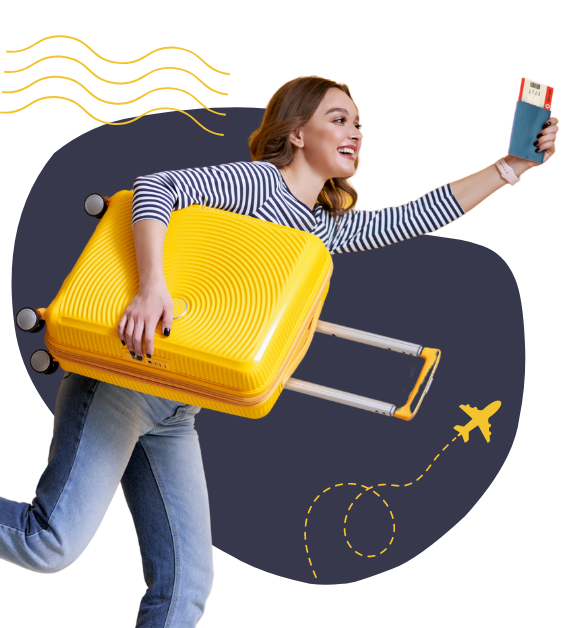
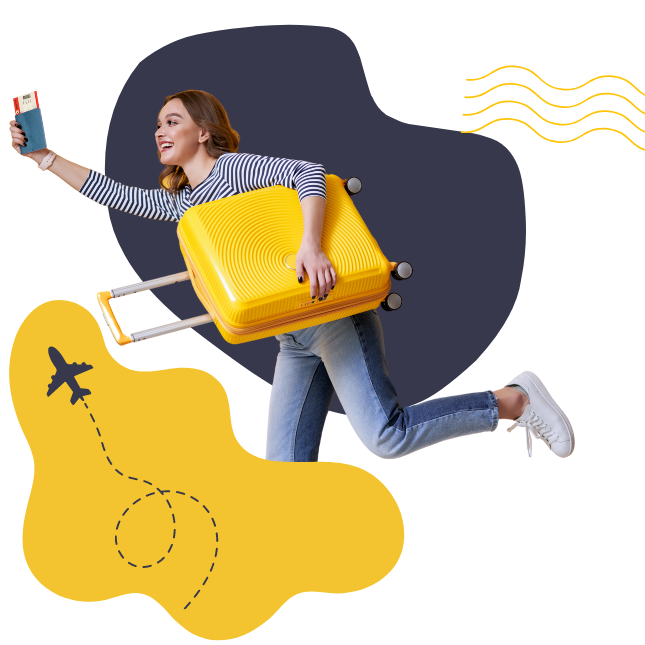
add home page

diff --git a/src/scenes/navbar/index.tsx b/src/scenes/navbar/index.tsx
@@ -2,52 +2,108 @@ import { useState } from "react";
 import { Bars3Icon, XMarkIcon } from "@heroicons/react/24/solid";
 import Logo from "@/assets/Logo.png";
 import Link from "./Link";
+import { SelectedPage } from "@/shared/types";
+import useMediaQuery from "@/hooks/useMediaQuery";
+import ActionButton from "@/shared/ActionButton";
 
 type Props = {
-  selectedPage: string;
-  setSelectedPage: (value: string) => void;
+  isTopOfPage: boolean;
+  selectedPage: SelectedPage;
+  setSelectedPage: (value: SelectedPage) => void;
 };
 
-const Navbar = ({ selectedPage, setSelectedPage }: Props) => {
+const Navbar = ({ isTopOfPage, selectedPage, setSelectedPage }: Props) => {
   const flexBetween = "flex items-center justify-between";
+  const [isMenuToggled, setIsMenuToggled] = useState(false);
+  const isAboveMediumScreens = useMediaQuery("(min-width: 1060px)");
+  const navbarBackground = isTopOfPage ? "" : "bg-secondary-400 drop-shadow";
 
   return (
     <nav>
-      <div className={`${flexBetween} fixed top-0 z-30 w-full py-6`}>
+      <div
+        className={`${navbarBackground} ${flexBetween} fixed top-0 z-30 w-full py-6`}
+      >
         <div className={`${flexBetween} mx-auto w-5/6`}>
           <div className={`${flexBetween} w-full gap-16`}>
             <img alt="logo" src={Logo} />
-            <div className={`${flexBetween} w-full`}>
-              <div className={`${flexBetween} gap-8 text-sm`}>
-                <Link
-                  page="Home"
-                  selectedPage={selectedPage}
-                  setSelectedPage={setSelectedPage}
-                />
-                <Link
-                  page="About"
-                  selectedPage={selectedPage}
-                  setSelectedPage={setSelectedPage}
-                />
-                <Link
-                  page="Our Tours"
-                  selectedPage={selectedPage}
-                  setSelectedPage={setSelectedPage}
-                />
-                <Link
-                  page="Contact Us"
-                  selectedPage={selectedPage}
-                  setSelectedPage={setSelectedPage}
-                />
+            {isAboveMediumScreens ? (
+              <div className={`${flexBetween} w-full`}>
+                <div className={`${flexBetween} gap-8 text-sm`}>
+                  <Link
+                    page="Home"
+                    selectedPage={selectedPage}
+                    setSelectedPage={setSelectedPage}
+                  />
+                  <Link
+                    page="About"
+                    selectedPage={selectedPage}
+                    setSelectedPage={setSelectedPage}
+                  />
+                  <Link
+                    page="Our Tours"
+                    selectedPage={selectedPage}
+                    setSelectedPage={setSelectedPage}
+                  />
+                  <Link
+                    page="Contact"
+                    selectedPage={selectedPage}
+                    setSelectedPage={setSelectedPage}
+                  />
+                </div>
+                <div className="flex items-center gap-8">
+                  <div className="hover:text-primary-300">
+                    <p>Sign In</p>
+                  </div>
+
+                  <ActionButton setSelectedPage={setSelectedPage}>
+                    Become a Traveler
+                  </ActionButton>
+                </div>
               </div>
-              <div>
-                <p>Sign In</p>
-                <button>Become a Member</button>
-              </div>
-            </div>
+            ) : (
+              <button
+                className="rounded-full bg-secondary-500 p-1"
+                onClick={() => setIsMenuToggled(!isMenuToggled)}
+              >
+                <Bars3Icon className="h-6 w-6 text-white" />
+              </button>
+            )}
           </div>
         </div>
       </div>
+
+      {/* MOBILE MENU */}
+      {!isAboveMediumScreens && isMenuToggled && (
+        <div className="fixed right-0 bottom-0 z-40 h-full w-[300px] bg-secondary-400 ">
+          <div className="flex justify-end p-12">
+            <button onClick={() => setIsMenuToggled(!isMenuToggled)}>
+              <XMarkIcon className="h-6 w-6 text-gray-800" />
+            </button>
+          </div>
+          <div className="ml-[33%] flex flex-col gap-10 text-2xl">
+            <Link
+              page="Home"
+              selectedPage={selectedPage}
+              setSelectedPage={setSelectedPage}
+            />
+            <Link
+              page="About"
+              selectedPage={selectedPage}
+              setSelectedPage={setSelectedPage}
+            />
+            <Link
+              page="Our Tours"
+              selectedPage={selectedPage}
+              setSelectedPage={setSelectedPage}
+            />
+            <Link
+              page="Contact"
+              selectedPage={selectedPage}
+              setSelectedPage={setSelectedPage}
+            />
+          </div>
+        </div>
+      )}
     </nav>
   );
 };

diff --git a/src/scenes/home/index.tsx b/src/scenes/home/index.tsx
@@ -1,0 +1,99 @@
+import useMediaQuery from "@/hooks/useMediaQuery";
+import ActionButton from "@/shared/ActionButton";
+import AnchorLink from "react-anchor-link-smooth-scroll";
+import { SelectedPage } from "@/shared/types";
+import HomePageText from "@/assets/HomePageText.png";
+import HomePage from "@/assets/HomePage.png";
+// later change
+import Sponsor1 from "@/assets/sponsor1.png";
+import Sponsor2 from "@/assets/Sponsor2.png";
+import Sponsor3 from "@/assets/sponsor3.png";
+import { motion } from "framer-motion";
+
+type Props = {
+  setSelectedPage: (value: SelectedPage) => void;
+};
+
+const Home = ({ setSelectedPage }: Props) => {
+  const isAboveMediumScreens = useMediaQuery("(min-width:1060px)");
+  return (
+    <section id="home" className="gap-16 bg-gray-20 py-10 md:h-full md:pb-0">
+      {/* IMAGE AND MAIN HEADER */}
+      <div className="mx-auto w-5/6 items-center justify-center md:flex md:h-5/6">
+        {/* MAIN HEADER */}
+        <div className="z-10 mt-32 md:basis-3/5">
+          {/* HEADINGS */}
+          <motion.div
+            className="md:-mt-20"
+            initial="hidden"
+            whileInView="visible"
+            viewport={{ once: true, amount: 0.5 }}
+            transition={{ duration: 1 }}
+            variants={{
+              hidden: { opacity: 0, x: -50 },
+              visible: { opacity: 1, x: 0 },
+            }}
+          >
+            <div className="relative">
+              <div className="before:absolute before:-top-20 before:-left-20 md:before:content-tetext">
+                <img src={HomePageText} alt="home-page-text" />
+              </div>
+            </div>
+            <p className="mt-8 text-sm">
+              Welcome to Travel Express, your one-stop travel agency for all
+              your travel needs. Our experienced team of travel experts is
+              dedicated to providing you with the best travel experiences,
+              whether you're planning a weekend getaway or a month-long
+              adventure. With a wide range of destinations, accommodations, and
+              activities to choose from, we make it easy for you to explore the
+              world and create unforgettable memories. Contact us today to start
+              planning your next trip!
+            </p>
+          </motion.div>
+          {/* ACTIONS*/}
+          <motion.div
+            className="mt-8 flex items-center gap-8"
+            initial="hidden"
+            whileInView="visible"
+            viewport={{ once: true, amount: 0.5 }}
+            transition={{ delay: 0.1, duration: 1 }}
+            variants={{
+              hidden: { opacity: 0, x: -50 },
+              visible: { opacity: 1, x: 0 },
+            }}
+          >
+            <ActionButton setSelectedPage={setSelectedPage}>
+              Join Travelers!
+            </ActionButton>
+            <AnchorLink
+              className="text-sm font-bold text-primary-500 underline"
+              onClick={() => setSelectedPage(SelectedPage.Contact)}
+              href={`#${SelectedPage.Contact}`}
+            >
+              <p>Learn More</p>
+            </AnchorLink>
+          </motion.div>
+        </div>
+        {/* IMAGE*/}
+        <div className="flex basis-3/5 md:z-10 md:ml-40 md:mt-16">
+          <img src={HomePage} alt="home-page-image" />
+        </div>
+      </div>
+
+      {/* SPONSORS*/}
+      {isAboveMediumScreens && (
+        <div className="h-[150px] w-full bg-primary-100 py-10">
+          <div className="mx-auto w-5/6 ">
+            <div className="flex w-3/5 items-center justify-between gap-6">
+              <img src={Sponsor1} alt="sponsor-1" />
+              <img src={Sponsor2} alt="sponsor-2" />
+              <img src={Sponsor3} alt="sponsor-3" />
+            </div>
+          </div>
+        </div>
+      )}
+    </section>
+  );
+};
+
+export default Home;

diff --git a/src/App.tsx b/src/App.tsx
@@ -1,12 +1,35 @@
 import Navbar from "@/scenes/navbar";
-import { useState } from "react";
+import Home from "@/scenes/home";
+import { useEffect, useState } from "react";
+import { SelectedPage } from "@/shared/types";
 
 function App() {
-  const [selectedPage, setSelectedPage] = useState("home");
+  const [selectedPage, setSelectedPage] = useState(SelectedPage.Home);
+  const [isTopOfPage, setIsTopOfPage] = useState(true);
+
+  useEffect(() => {
+    const handleScroll = () => {
+      if (window.scrollY === 0) {
+        setIsTopOfPage(true);
+        setSelectedPage(SelectedPage.Home);
+      } else {
+        setIsTopOfPage(false);
+      }
+    };
+    window.addEventListener("scroll", handleScroll);
+    return () => {
+      window.removeEventListener("scroll", handleScroll);
+    };
+  });
 
   return (
     <div className="app bg-gray-20">
-      <Navbar selectedPage={selectedPage} setSelectedPage={setSelectedPage} />
+      <Navbar
+        isTopOfPage={isTopOfPage}
+        selectedPage={selectedPage}
+        setSelectedPage={setSelectedPage}
+      />
+      <Home setSelectedPage={setSelectedPage} />
     </div>
   );
 }

diff --git a/src/scenes/navbar/Link.tsx b/src/scenes/navbar/Link.tsx
@@ -1,18 +1,19 @@
+import { SelectedPage } from "@/shared/types";
 import AnchorLink from "react-anchor-link-smooth-scroll";
 
 type Props = {
   page: string;
-  selectedPage: string;
-  setSelectedPage: (value: string) => void;
+  selectedPage: SelectedPage;
+  setSelectedPage: (value: SelectedPage) => void;
 };
 
 const Link = ({ page, selectedPage, setSelectedPage }: Props) => {
-  const lowerCasePage = page.toLowerCase().replace(/ /g, "");
+  const lowerCasePage = page.toLowerCase().replace(/ /g, "") as SelectedPage;
 
   return (
     <AnchorLink
-      className={`${selectedPage === lowerCasePage ? "text-primary-500" : ""}
-        transition duration-500 hover:text-primary-100
+      className={`${selectedPage === lowerCasePage ? "text-secondary-500" : ""}
+        transition duration-500 hover:text-gray-100
       `}
       href={`#${lowerCasePage}`}
       onClick={() => setSelectedPage(lowerCasePage)}

diff --git a/src/shared/ActionButton.tsx b/src/shared/ActionButton.tsx
@@ -1,0 +1,23 @@
+import AnchorLink from "react-anchor-link-smooth-scroll";
+import { SelectedPage } from "./types";
+
+type Props = {
+  children: React.ReactNode;
+  setSelectedPage: (value: SelectedPage) => void;
+};
+
+const ActionButton = ({ children, setSelectedPage }: Props) => {
+  return (
+    <AnchorLink
+      className="rounded-md bg-primary-500 px-10 py-2 hover:bg-primary-100"
+      onClick={() => {
+        setSelectedPage(SelectedPage.Contact);
+      }}
+      href={`#${SelectedPage.Contact}`}
+    >
+      {children}
+    </AnchorLink>
+  );
+};
+
+export default ActionButton;

diff --git a/src/hooks/useMediaQuery.ts b/src/hooks/useMediaQuery.ts
@@ -1,0 +1,19 @@
+import { useState, useEffect } from "react";
+
+const useMediaQuery = (query: string) => {
+  const [matches, setMatches] = useState(false);
+
+  useEffect(() => {
+    const media = window.matchMedia(query);
+    if (media.matches !== matches) {
+      setMatches(media.matches);
+    }
+    const listener = () => setMatches(media.matches);
+    window.addEventListener("resize", listener);
+    return () => window.removeEventListener("resize", listener);
+  }, [matches, query]);
+
+  return matches;
+};
+
+export default useMediaQuery;

diff --git a/src/shared/types.ts b/src/shared/types.ts
@@ -1,0 +1,6 @@
+export enum SelectedPage {
+  Home = "home",
+  About = "about",
+  OurTours = "ourtours",
+  Contact = "contact",
+}
